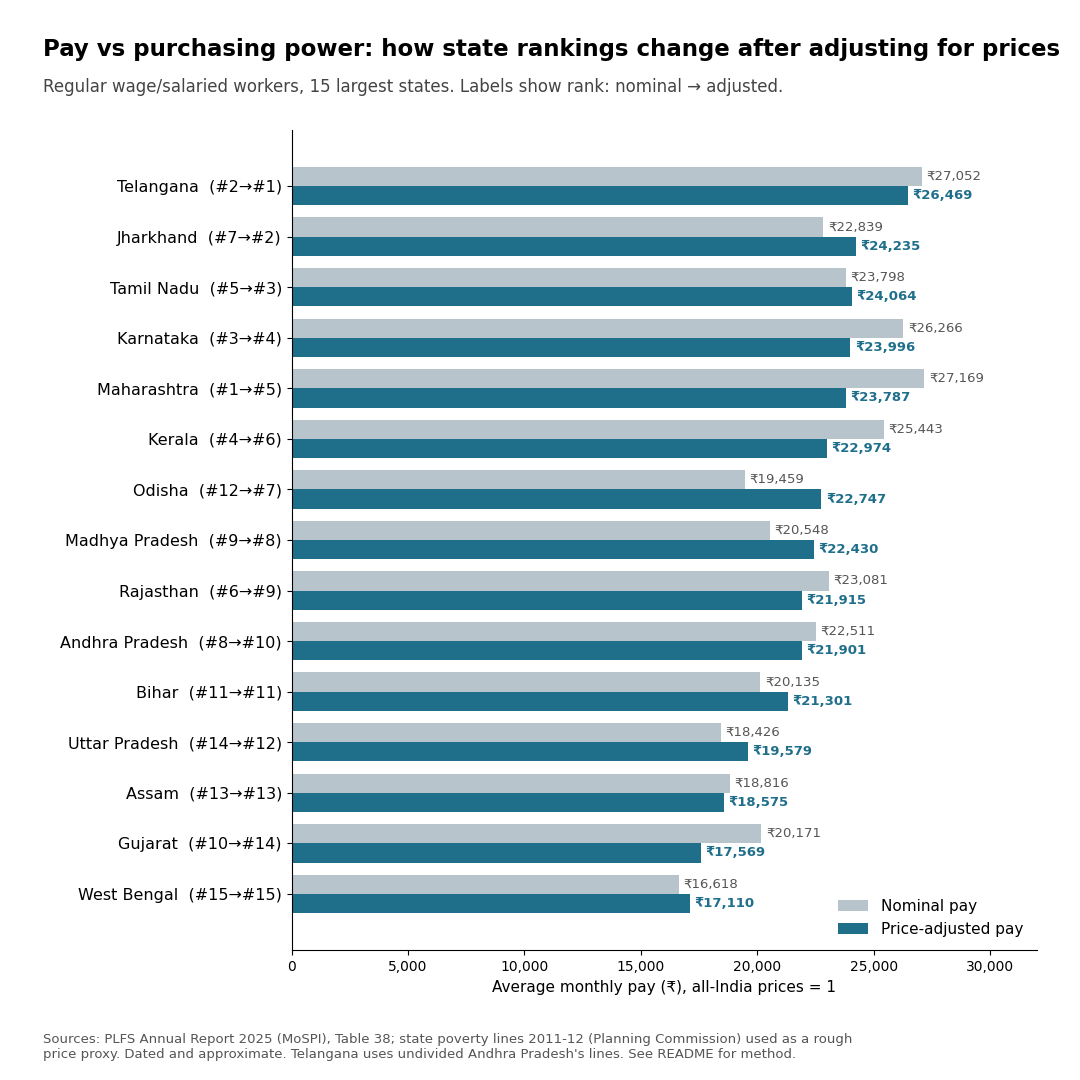
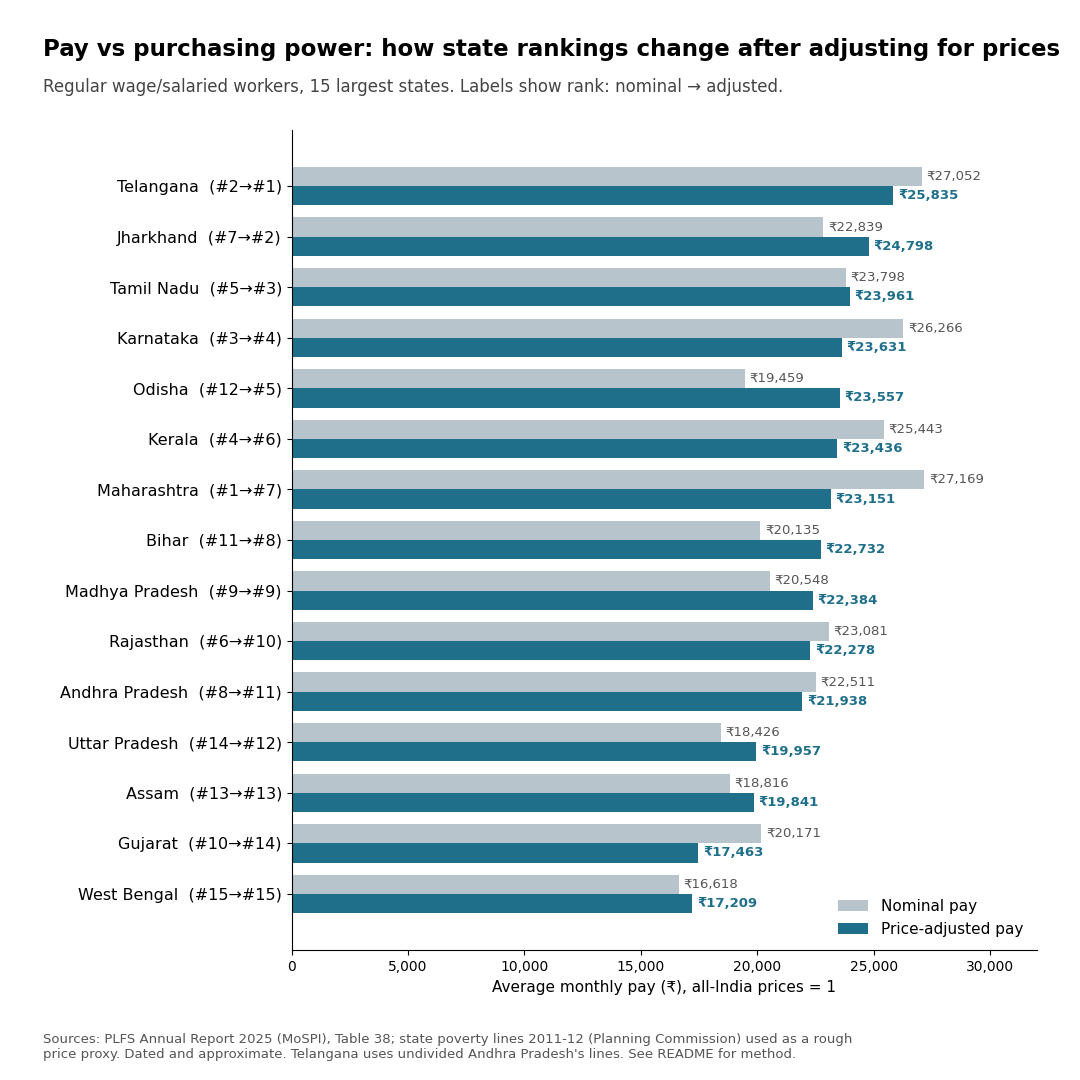
Add files via upload
Fixing the price index to include the urban premium.

diff --git a/analysis_cost_of_living.py b/analysis_cost_of_living.py
@@ -1,15 +1,18 @@
 """
 Post 2: price-adjusted pay across India's 15 largest states.
 
-Idea: states differ in prices. The Planning Commission's state poverty lines (2011-12) are
-built from state-specific price differences, so state line / all-India line is used as a
-RELATIVE PRICE INDEX (rural and urban separately). This is a rough, dated proxy.
+Idea: states differ in prices. The Planning Commission's state poverty lines (2011-12, Rs per
+person per month) are built from state-specific price differences, so they are used as a rough,
+dated PRICE PROXY. Rural and urban lines are kept in rupees, so the fact that urban prices are
+higher than rural prices everywhere is captured, not ignored.
 
 Steps
 1. Urban share of regular wage workers in a state is backed out of the PLFS table itself:
    All = (1-w)*Rural + w*Urban  ->  w = (All - Rural) / (Urban - Rural)
-2. State price index = (1-w)*(rural line/816) + w*(urban line/1000)
-3. Price-adjusted pay = nominal pay / price index  (all-India prices = 1)
+2. State price level = (1-w)*rural line + w*urban line   (Rs)
+3. Price index = state price level / all-India price level (same formula with all-India lines
+   816 and 1,000 and the all-India urban share). All-India = 1.
+4. Price-adjusted pay = nominal pay / price index
 
 Run:  python analysis_cost_of_living.py
 """
@@ -28,7 +31,10 @@ pl = pd.read_csv(ROOT / "data" / "state_poverty_lines_2011_12_selected.csv")
 d = pl.merge(wage, on="State_UT")
 assert len(d) == 15
 d["urban_share"] = (d.All_Person - d.Rural_Person) / (d.Urban_Person - d.Rural_Person)
-d["price_index"] = (1 - d.urban_share) * (d.PL_Rural / 816) + d.urban_share * (d.PL_Urban / 1000)
+india = wage[wage.State_UT == "all India"].iloc[0]
+w_in = (india.All_Person - india.Rural_Person) / (india.Urban_Person - india.Rural_Person)
+base = (1 - w_in) * 816 + w_in * 1000
+d["price_index"] = ((1 - d.urban_share) * d.PL_Rural + d.urban_share * d.PL_Urban) / base
 d["adjusted_pay"] = (d.All_Person / d.price_index).round(0)
 d["rank_nominal"] = d.All_Person.rank(ascending=False).astype(int)
 d["rank_adjusted"] = d.adjusted_pay.rank(ascending=False).astype(int)
